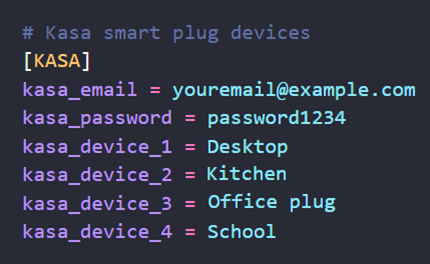
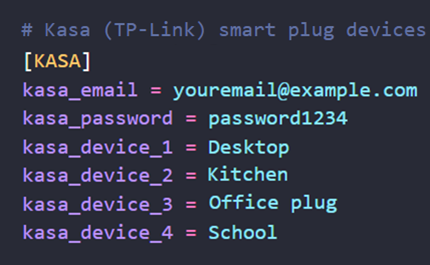
v11.1

diff --git a/README.md b/README.md
@@ -1,6 +1,6 @@
 # `Battery Monitor`
 
-_**Version** 11.0_
+_**Version** 11.1_
 
 A Python script for **Windows** that monitors and controls the laptop's battery percentage, optionally with a smart plug; preventing it from getting too low or too high, thus helping to extend battery life. It works as an icon in the system tray.
 
